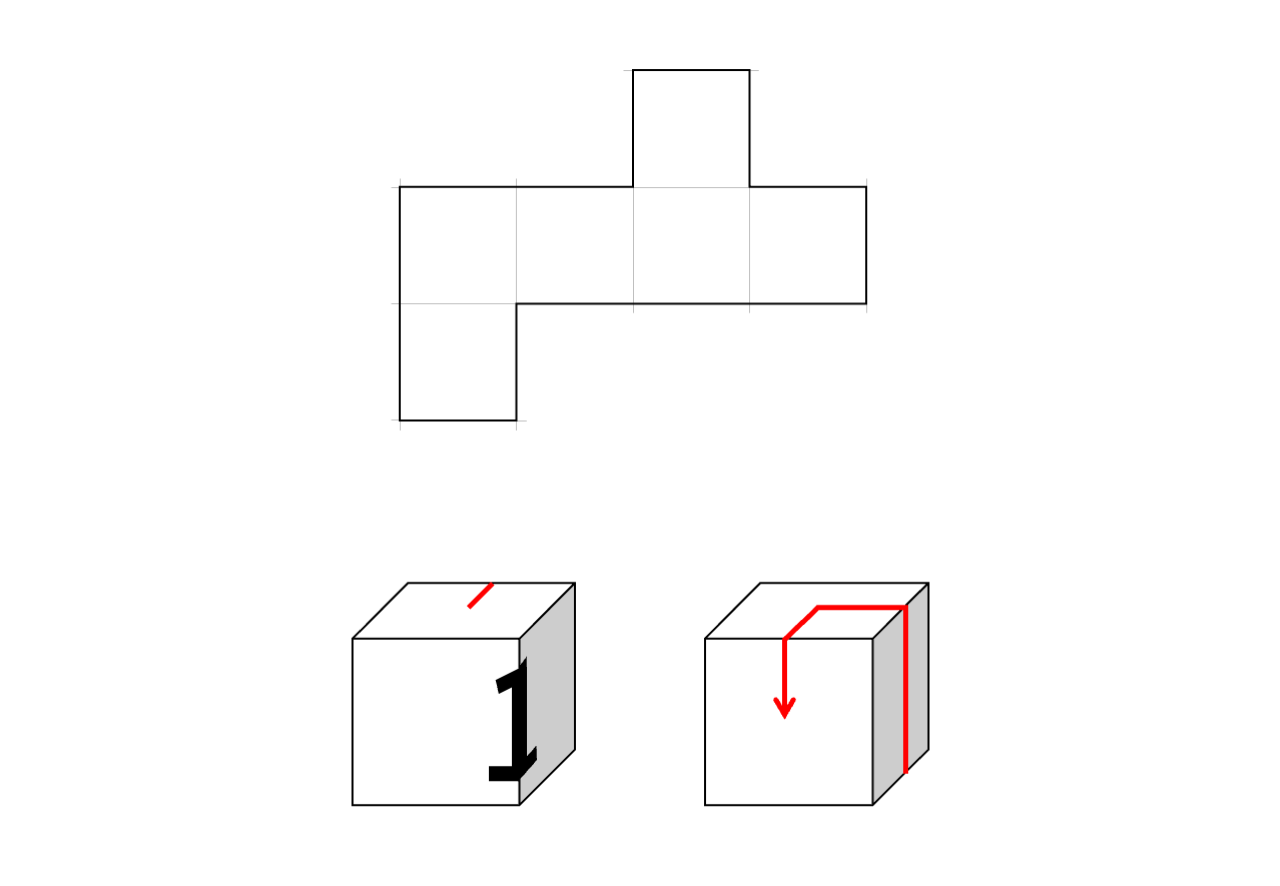
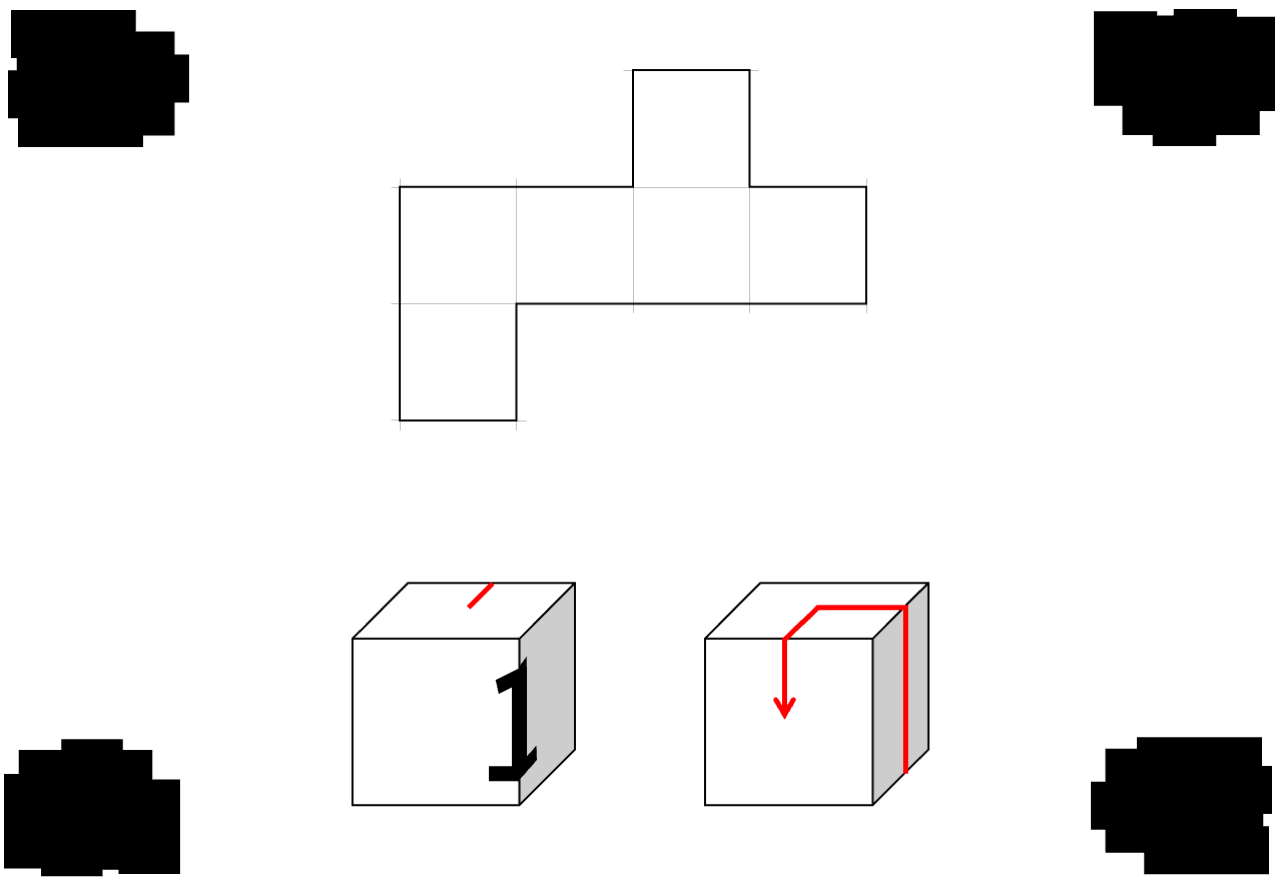
ノイズ付与

diff --git a/index.html b/index.html
@@ -225,7 +225,7 @@
 
             stage3_riddles: {
                 title: "3rd stage",
-                description: "イータ・ズラースル「やぁ。よく考えたら答えも分かりきっている問題出されてもつまらんよな。<br>だから、問題番号と問題の枠を削除し、問題をシャッフルをした。答えの候補はあるかもしれないが、これで少しは謎を考えることができるだろう。それでは、頑張って解きな。」",
+                description: "イータ・ズラースル「やぁ。よく考えたら答えも分かりきっている問題出されてもつまらんよな。<br>だから、問題番号と問題の枠がある位置にノイズを加え、問題をシャッフルをした。答えの候補はあるかもしれないが、これで少しは謎を考えることができるだろう。それでは、頑張って解きな。」",
                 images: [
                     "images/3rd/1.png",
                     "images/3rd/2.png",
